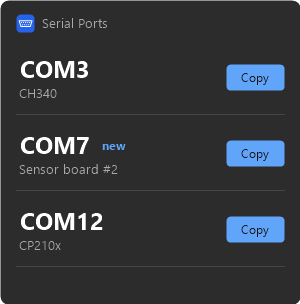
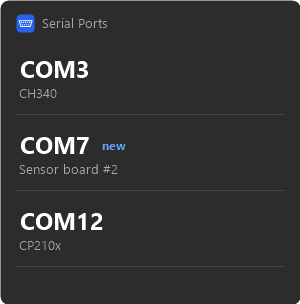
Copy by clicking a row, add Device Manager to the large status card
- Rows are plain; a click copies the port name and shows a short
  confirmation. The copy buttons are gone
- Device Manager is a text link, also on the large System Status card
- Row limits follow the real height of the large widget
- The small widget points to a larger size for editing nicknames
- Register-DevPackage -Reset for changes to widget definitions, which
  the widget board does not pick up from an update

Changed region(s): [[0.75, 0.4441, 0.96, 0.5625], [0.75, 0.2072, 0.96, 0.3257], [0.75, 0.7105, 0.96, 0.7993]]

diff --git a/tests/WhichCOM.Core.Tests/CardTemplateTests.cs b/tests/WhichCOM.Core.Tests/CardTemplateTests.cs
@@ -73,31 +73,40 @@ public class CardTemplateTests
         Assert.Equal(["COM3 · COM7", "Latest: COM7 · Sensor board"], texts);
     }
 
-    [Theory]
-    [InlineData(CardSize.Small)]
-    [InlineData(CardSize.Medium)]
-    [InlineData(CardSize.Large)]
-    public void Empty_card_shows_only_the_empty_text(CardSize size)
+    [Fact]
+    public void Empty_small_card_shows_only_the_empty_text()
     {
-        var texts = Texts(ExpandSerialPorts(size, []));
-
-        Assert.Equal(["No device connected"], texts);
+        Assert.Equal(["No device connected"], Texts(ExpandSerialPorts(CardSize.Small, [])));
     }
 
     [Theory]
     [InlineData(CardSize.Medium)]
     [InlineData(CardSize.Large)]
-    public void Every_row_has_a_copy_button_with_its_port(CardSize size)
+    public void Empty_card_offers_the_device_manager(CardSize size)
+    {
+        var card = ExpandSerialPorts(size, []);
+
+        Assert.Equal(["No device connected", "Device Manager"], Texts(card));
+        Assert.Single(Actions(card, SerialPortsCard.DeviceManagerVerb));
+        Assert.Empty(Actions(card, SerialPortsCard.CopyVerb));
+    }
+
+    [Theory]
+    [InlineData(CardSize.Medium)]
+    [InlineData(CardSize.Large)]
+    public void A_click_on_a_row_copies_its_port(CardSize size)
     {
         var card = ExpandSerialPorts(size, Ports);
 
-        var copyActions = Descendants(card)
-            .Where(node => node["type"]?.GetValue<string>() == "Action.Execute"
-                && node["verb"]?.GetValue<string>() == SerialPortsCard.CopyVerb)
-            .ToList();
+        var copyActions = Actions(card, SerialPortsCard.CopyVerb);
 
         Assert.Equal(["COM3", "COM7"], copyActions.Select(action => action["data"]!["port"]!.GetValue<string>()));
-        Assert.All(copyActions, action => Assert.Equal("Copy", action["title"]!.GetValue<string>()));
+        Assert.All(copyActions, action => Assert.Equal("Copy", action["tooltip"]!.GetValue<string>()));
+
+        // The rows stay plain: no buttons and no copy label.
+        Assert.DoesNotContain(Descendants(card), node => node["type"]?.GetValue<string>() == "ActionSet");
+        Assert.DoesNotContain("Copy", Texts(card));
+        Assert.DoesNotContain("Copied", Texts(card));
 
         // The provider must be able to read back what the card sends.
         Assert.All(copyActions, action =>
@@ -119,8 +128,22 @@ public class CardTemplateTests
         Assert.Equal(["COM3", "COM7", "new"], runs);
     }
 
+    [Theory]
+    [InlineData(CardSize.Medium)]
+    [InlineData(CardSize.Large)]
+    public void Only_the_copied_row_shows_the_confirmation(CardSize size)
+    {
+        var data = SerialPortsCard.BuildData(Ports, size, CardStrings.For("en"), Noon, Window, copiedPort: "COM7");
+        var template = new AdaptiveCardTemplate(ReadTemplate($"SerialPorts.{size.ToString().ToLowerInvariant()}"));
+
+        var texts = Texts(JsonNode.Parse(template.Expand(data.ToJsonString()))!);
+
+        Assert.Single(texts, text => text == "Copied");
+        Assert.Equal("Copied", texts[texts.IndexOf("Sensor board") + (size == CardSize.Large ? 3 : 1)]);
+    }
+
     [Fact]
-    public void Large_card_shows_details_and_the_device_manager_button()
+    public void Large_card_shows_details_and_the_device_manager_link()
     {
         var card = ExpandSerialPorts(CardSize.Large, Ports);
         var texts = Texts(card);
@@ -128,13 +151,13 @@ public class CardTemplateTests
         Assert.Contains("USB-SERIAL CH340 · 1A86:7523", texts);
         Assert.Contains("ESP32 native USB · 303A:1001", texts);
         Assert.Contains("S/N AA:BB:CC:DD:EE:FF", texts);
+        Assert.Equal("Device Manager", texts[^1]);
 
-        var action = Assert.Single(card["actions"]!.AsArray())!;
-        Assert.Equal(SerialPortsCard.DeviceManagerVerb, action["verb"]!.GetValue<string>());
-        Assert.Equal("Device Manager", action["title"]!.GetValue<string>());
+        Assert.Single(Actions(card, SerialPortsCard.DeviceManagerVerb));
+        Assert.Null(card["actions"]);
 
         var styles = card["body"]!.AsArray()
-            .Where(node => node!["type"]!.GetValue<string>() == "Container")
+            .Where(node => node!["style"] is not null)
             .Select(node => node!["style"]!.GetValue<string>());
         Assert.Equal(["default", "emphasis"], styles);
     }
@@ -156,6 +179,12 @@ public class CardTemplateTests
 
         return JsonNode.Parse(template.Expand(data.ToJsonString()))!;
     }
+
+    private static List<JsonObject> Actions(JsonNode card, string verb) =>
+        Descendants(card)
+            .Where(node => node["type"]?.GetValue<string>() == "Action.Execute"
+                && node["verb"]?.GetValue<string>() == verb)
+            .ToList();
 
     private static List<string> Texts(JsonNode card) =>
         Descendants(card)

diff --git a/tests/WhichCOM.Core.Tests/SystemStatusTests.cs b/tests/WhichCOM.Core.Tests/SystemStatusTests.cs
@@ -286,13 +286,17 @@ public class SystemStatusTests
                 SystemStatusCard.InputIcon, "Microphone (Test Audio)", "Input",
                 "Serial ports",
                 "CH340",
+                "Copied",
                 "Sensor board",
+                "Device Manager",
             ],
             texts);
 
         var json = card.ToJsonString();
-        Assert.Contains("\"title\":\"Copied\",\"verb\":\"copy\",\"data\":{\"port\":\"COM3\"}", json, StringComparison.Ordinal);
-        Assert.Contains("\"title\":\"Copy\",\"verb\":\"copy\",\"data\":{\"port\":\"COM7\"}", json, StringComparison.Ordinal);
+        Assert.Contains("\"verb\":\"copy\",\"tooltip\":\"Copy\",\"data\":{\"port\":\"COM3\"}", json, StringComparison.Ordinal);
+        Assert.Contains("\"verb\":\"copy\",\"tooltip\":\"Copy\",\"data\":{\"port\":\"COM7\"}", json, StringComparison.Ordinal);
+        Assert.Contains("\"verb\":\"deviceManager\"", json, StringComparison.Ordinal);
+        Assert.DoesNotContain("ActionSet", json, StringComparison.Ordinal);
         Assert.Contains("new", json, StringComparison.Ordinal);
     }
 
@@ -303,7 +307,7 @@ public class SystemStatusTests
 
         var texts = Texts(ExpandLarge(data));
 
-        Assert.Equal(["Serial ports", "No device connected"], texts.TakeLast(2));
+        Assert.Equal(["Serial ports", "No device connected", "Device Manager"], texts.TakeLast(3));
     }
 
     [Fact]
@@ -314,7 +318,7 @@ public class SystemStatusTests
         var data = SystemStatusCard.BuildData(Full, ports, English, TestPorts.Noon, TimeSpan.FromSeconds(120));
 
         Assert.Equal(SystemStatusCard.LargeCardPortCapacity, data["serial"]!["ports"]!.AsArray().Count);
-        Assert.Equal("+3 more", Texts(ExpandLarge(data))[^1]);
+        Assert.Equal(["+4 more", "Device Manager"], Texts(ExpandLarge(data)).TakeLast(2));
     }
 
     private static JsonNode ExpandLarge(JsonObject data)

diff --git a/src/WhichCOM.Core/Cards/NicknameCard.cs b/src/WhichCOM.Core/Cards/NicknameCard.cs
@@ -19,9 +19,9 @@ public static class NicknameCard
     /// <summary>Number of devices the card of the given size has room for.</summary>
     public static int Capacity(CardSize size) => size switch
     {
-        CardSize.Small => 1,
+        CardSize.Small => 0,
         CardSize.Medium => 2,
-        _ => 5,
+        _ => 4,
     };
 
     public static JsonObject BuildData(IReadOnlyList<SerialPortInfo> ports, CardSize size, CardStrings strings)
@@ -47,6 +47,9 @@ public static class NicknameCard
             });
         }
 
+        // The small card has no room for an input.
+        var message = Capacity(size) == 0 ? strings.NicknameEnlarge : strings.NoDeviceForNickname;
+
         return new JsonObject
         {
             ["title"] = strings.Nicknames,
@@ -55,7 +58,7 @@ public static class NicknameCard
             ["devices"] = rows,
             ["hasDevices"] = rows.Count > 0,
             ["isEmpty"] = rows.Count == 0,
-            ["noDevices"] = strings.NoDeviceForNickname,
+            ["noDevices"] = message,
             ["save"] = strings.Save,
             ["cancel"] = strings.Cancel,
             ["maxLength"] = MaxNicknameLength,

diff --git a/src/WhichCOM.Core/Cards/CardStrings.cs b/src/WhichCOM.Core/Cards/CardStrings.cs
@@ -60,6 +60,8 @@ public sealed record CardStrings
 
     public required string NoDeviceForNickname { get; init; }
 
+    public required string NicknameEnlarge { get; init; }
+
     public required string Save { get; init; }
 
     public required string Cancel { get; init; }
@@ -92,6 +94,7 @@ public sealed record CardStrings
         NicknameHint = "A nickname stays with the device, also when its port number changes.",
         NicknamePlaceholder = "Nickname",
         NoDeviceForNickname = "Connect a device to give it a nickname.",
+        NicknameEnlarge = "Make the widget larger to edit nicknames.",
         Save = "Save",
         Cancel = "Cancel",
     };
@@ -121,6 +124,7 @@ public sealed record CardStrings
         NicknameHint = "Takma ad cihaza bağlıdır; port numarası değişse de kalır.",
         NicknamePlaceholder = "Takma ad",
         NoDeviceForNickname = "Takma ad vermek için bir cihaz bağlayın.",
+        NicknameEnlarge = "Takma adları düzenlemek için widget'ı büyütün.",
         Save = "Kaydet",
         Cancel = "Vazgeç",
     };

diff --git a/tests/WhichCOM.Core.Tests/NicknameCardTests.cs b/tests/WhichCOM.Core.Tests/NicknameCardTests.cs
@@ -44,9 +44,9 @@ public class NicknameCardTests
     }
 
     [Theory]
-    [InlineData(CardSize.Small, "COM9")]
+    [InlineData(CardSize.Small, "")]
     [InlineData(CardSize.Medium, "COM8,COM9")]
-    [InlineData(CardSize.Large, "COM5,COM6,COM7,COM8,COM9")]
+    [InlineData(CardSize.Large, "COM6,COM7,COM8,COM9")]
     public void Shows_the_most_recently_plugged_devices_that_fit(CardSize size, string expected)
     {
         var ports = Enumerable.Range(3, 7)
@@ -56,6 +56,15 @@ public class NicknameCardTests
         var devices = NicknameCard.BuildData(ports, size, English)["devices"]!.AsArray();
 
         Assert.Equal(expected, string.Join(',', devices.Select(device => device!["port"]!.GetValue<string>())));
+    }
+
+    [Fact]
+    public void Small_card_asks_for_a_larger_widget()
+    {
+        var data = NicknameCard.BuildData([TestPorts.Esp32(7)], CardSize.Small, English);
+
+        Assert.True(data["isEmpty"]!.GetValue<bool>());
+        Assert.Equal("Make the widget larger to edit nicknames.", data["noDevices"]!.GetValue<string>());
     }
 
     [Fact]

diff --git a/tests/WhichCOM.Core.Tests/SerialPortsCardTests.cs b/tests/WhichCOM.Core.Tests/SerialPortsCardTests.cs
@@ -96,14 +96,15 @@ public class SerialPortsCardTests
         var rows = SerialPortsCard.BuildData(
             [TestPorts.Ch340(3), TestPorts.Esp32(7)], CardSize.Medium, English, Noon, Window, copiedPort: "COM7")["ports"]!.AsArray();
 
-        Assert.Equal("Copy", rows[0]!["copyTitle"]!.GetValue<string>());
-        Assert.Equal("Copied", rows[1]!["copyTitle"]!.GetValue<string>());
+        Assert.False(rows[0]!["isCopied"]!.GetValue<bool>());
+        Assert.True(rows[1]!["isCopied"]!.GetValue<bool>());
+        Assert.Equal("Copied", rows[1]!["copiedText"]!.GetValue<string>());
     }
 
     [Theory]
     [InlineData(CardSize.Small, 4)]
     [InlineData(CardSize.Medium, 3)]
-    [InlineData(CardSize.Large, 5)]
+    [InlineData(CardSize.Large, 4)]
     public void Shows_no_more_ports_than_fit(CardSize size, int capacity)
     {
         var ports = Enumerable.Range(1, 8)

diff --git a/src/WhichCOM.Core/Cards/SerialPortsCard.cs b/src/WhichCOM.Core/Cards/SerialPortsCard.cs
@@ -21,7 +21,7 @@ public static partial class SerialPortsCard
     {
         CardSize.Small => 4,
         CardSize.Medium => 3,
-        _ => 5,
+        _ => 4,
     };
 
     public static JsonObject BuildData(
@@ -146,7 +146,10 @@ public static partial class SerialPortsCard
             ["hasSerial"] = serial.Length > 0,
             ["isNew"] = isNew,
             ["rowStyle"] = isNew ? "emphasis" : "default",
-            ["copyTitle"] = copied ? strings.Copied : strings.Copy,
+            // A click on the row copies the port name; the confirmation is shown for a moment.
+            ["copyTitle"] = strings.Copy,
+            ["isCopied"] = copied,
+            ["copiedText"] = strings.Copied,
         };
     }
 

diff --git a/src/WhichCOM.Core/Cards/SystemStatusCard.cs b/src/WhichCOM.Core/Cards/SystemStatusCard.cs
@@ -15,7 +15,7 @@ public static class SystemStatusCard
     public const string InputIcon = "\U0001F3A4";
 
     /// <summary>Number of serial ports the large card has room for below the status rows.</summary>
-    public const int LargeCardPortCapacity = 4;
+    public const int LargeCardPortCapacity = 3;
 
     private const string Separator = " · ";
     private const int MaxLinks = 2;

diff --git a/README.md b/README.md
@@ -13,7 +13,7 @@ Open the widget board (<kbd>Win</kbd> + <kbd>W</kbd>) and see everything at a gl
 
 - **Serial Ports widget** (small / medium / large)
   - Lists connected COM ports with chip type detection
-  - One-click copy of the port name
+  - Click a port to copy its name to the clipboard
   - Marks the port you plugged in most recently
   - Nicknames for your boards (e.g. "Sensor board #2")
 - **System Status widget** (small / medium / large)
@@ -156,7 +156,7 @@ A nickname belongs to a device, not to a port number:
 
 To set nicknames, open the **…** menu of a widget and choose **Customize widget**. The card lists
 the connected devices; type a nickname and choose **Save**. An empty nickname removes it. The
-card has room for 1 (small), 2 (medium) or 5 (large) devices.
+card has room for 2 (medium) or 4 (large) devices; the small widget is too small for it.
 
 Nicknames can also be written into the settings file by hand.
 
@@ -189,6 +189,7 @@ additions, create `%LOCALAPPDATA%\WhichCOM\chips.json` with the same format as
 | | Make sure **Widgets** is enabled in **Settings > Personalization > Taskbar** and that the "Windows Web Experience Pack" is up to date in the Microsoft Store. |
 | The widget is pinned but stays empty or shows an error | Read `%LOCALAPPDATA%\WhichCOM\provider.log`. It records when the provider starts, when widgets are shown and hidden, and every failure. |
 | | Check that the provider runs while the board is open: `Get-Process WhichCOM.WidgetProvider`. |
+| A size or **Customize widget** is missing in the **…** menu after an update | The widget board keeps the widget definition it saw first. Run `./scripts/Register-DevPackage.ps1 -Reset`, or uninstall and install the package, then pin the widgets again. |
 | A widget disappeared from the board | The log says `DeleteWidget` when a widget was unpinned. Add it again with **Add widgets**. |
 | `Install-Package.ps1` says the signature is not trusted | Run `New-DevCert.ps1 -Trust` in an elevated PowerShell. |
 | Installation fails with `0x80073CFB` or "a package with the same identity is already installed" | Run `./scripts/Uninstall-Package.ps1`, then install again. |
@@ -203,7 +204,7 @@ additions, create `%LOCALAPPDATA%\WhichCOM\chips.json` with the same format as
   nickname then belongs to the USB socket, not to the adapter.
 - Device descriptions are shown in the display language of Windows.
 - A widget has a fixed height and cannot scroll. The Serial Ports widget shows up to 4 (small),
-  3 (medium) or 5 (large) ports, preferring recently plugged USB devices. `comls` lists all.
+  3 (medium) or 4 (large) ports, preferring recently plugged USB devices. `comls` lists all.
 - **Wi-Fi name and signal.** Windows treats the Wi-Fi network name as location data and asks for
   location access when an application reads it. WhichCOM does not do that by default. It shows
   the name of the network profile, which Windows creates from the network name, and the signal
@@ -253,7 +254,7 @@ görmenizi sağlar. Ayrıca Wi-Fi, Ethernet ve ses cihazı durumunu gösterir.
 
 **Widget'lar**
 
-- **Serial Ports:** bağlı COM portları, çip tipi, takma ad ve Kopyala düğmesi
+- **Serial Ports:** bağlı COM portları, çip tipi ve takma ad; porta tıklayınca adı panoya kopyalanır
 - **System Status:** ağ, internet ve varsayılan ses cihazları; büyük boyutta COM portları da görünür
 
 Widget'lar yalnızca pano açıkken veri toplar.
